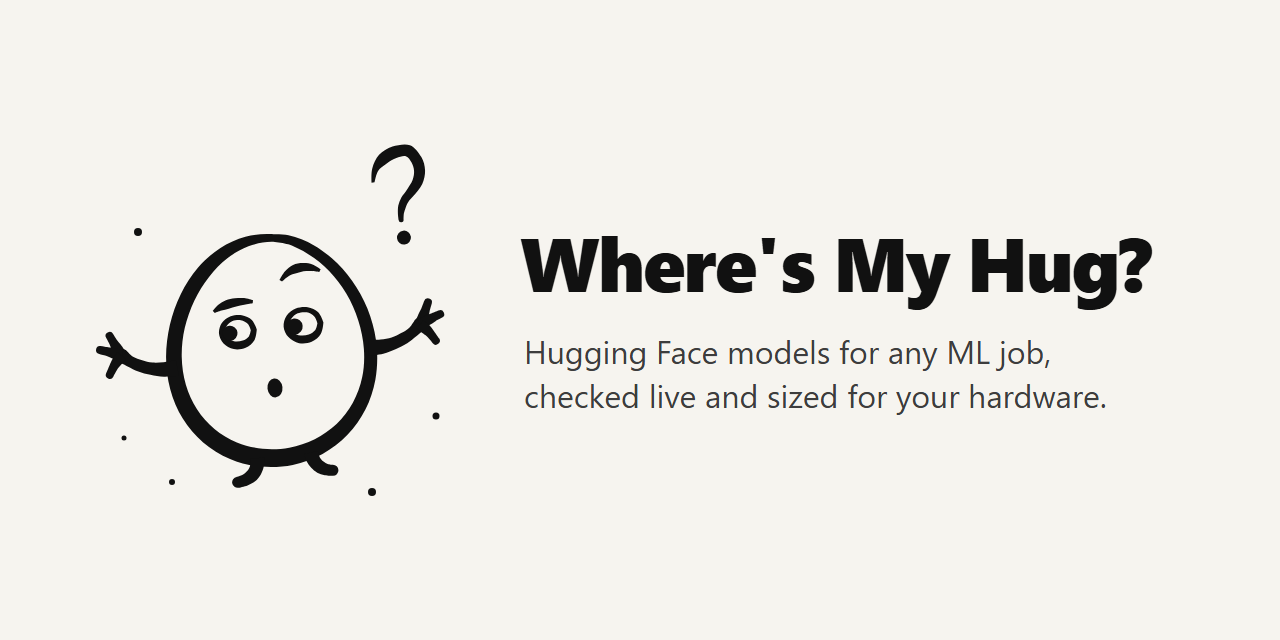
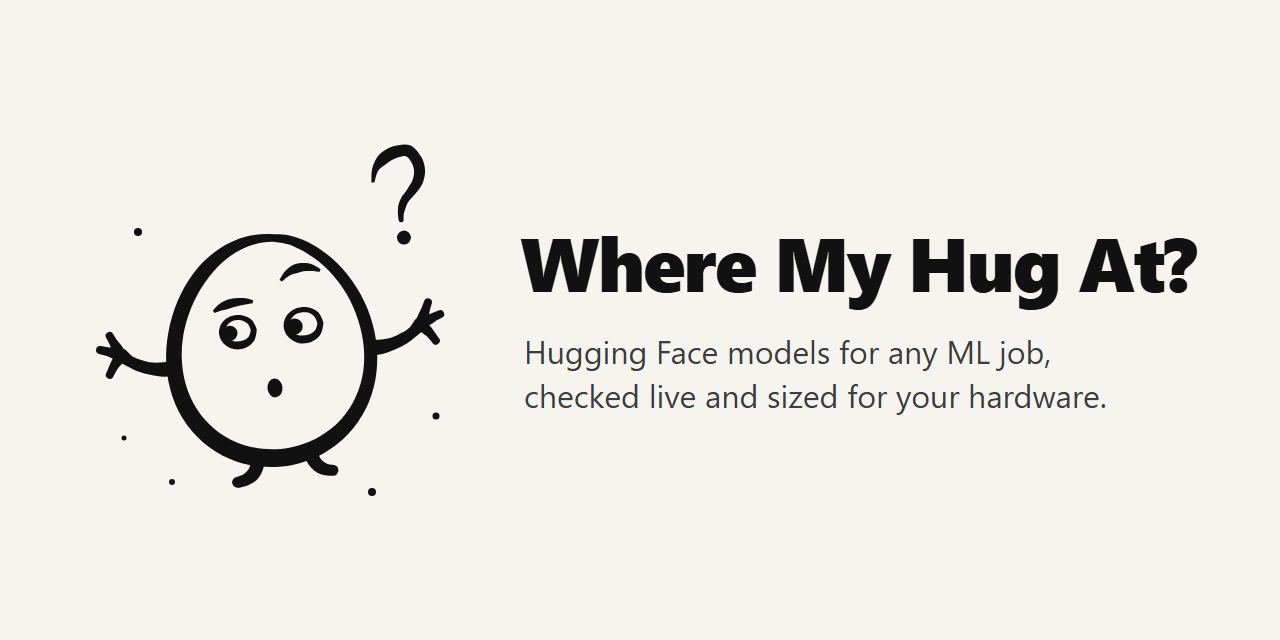
Where My Hug At?
Renamed to the meme's own words: "Where my hug at?", not "Where's my hug
at?". The title is Where My Hug At?; the repo, npm package, plugin,
extension and skill are where-my-hug; the tools are where_my_hug and
where_my_hug_verify. Nothing else changes.

Changed region(s): [[0.5938, 0.375, 0.9375, 0.5]]

diff --git a/src/server.ts b/src/server.ts
@@ -1,8 +1,8 @@
 #!/usr/bin/env node
-// Where's My Hug? as an MCP server on stdio. Two tools, called in order: the rubric the agent follows to propose
+// Where My Hug At? as an MCP server on stdio. Two tools, called in order: the rubric the agent follows to propose
 // models and datasets, then the live check on Hugging Face that writes the report the user sees. For an agent
-// without MCP, the same two run from a shell: `wheres-my-hug rubric` and `wheres-my-hug verify`, JSON on stdin.
-// For a client that speaks MCP over HTTP only, `wheres-my-hug --http` serves them at /mcp.
+// without MCP, the same two run from a shell: `where-my-hug rubric` and `where-my-hug verify`, JSON on stdin.
+// For a client that speaks MCP over HTTP only, `where-my-hug --http` serves them at /mcp.
 import { createServer } from 'node:http';
 import { text } from 'node:stream/consumers';
 import { McpServer } from '@modelcontextprotocol/sdk/server/mcp.js';
@@ -35,18 +35,18 @@ const slate = {
 };
 const verified = async (args: z.infer<z.ZodObject<typeof slate>>) => {
   const { markdown, result } = await verify(args);
-  return `${markdown}\n\n<wheres_my_hug_json>\n${JSON.stringify(result)}\n</wheres_my_hug_json>`;
+  return `${markdown}\n\n<where_my_hug_json>\n${JSON.stringify(result)}\n</where_my_hug_json>`;
 };
 
 function serve() {
-  const server = new McpServer({ name: 'wheres-my-hug', version: '0.1.0' });
-  server.registerTool('wheres_my_hug', {
-    title: "Where's my hug at?",
-    description: 'Step 1 of 2, before recommending any Hugging Face model or dataset. If compute, license, stack or data is missing, returns the questions to ask the user first: call again with the answers ("unknown" is fine). Then returns the method for splitting an ML need into parts and deciding which parts Hugging Face covers (use a model as is, fine-tune one, train one) and which are plain code. Follow it, then call wheres_my_hug_verify.',
+  const server = new McpServer({ name: 'where-my-hug', version: '0.1.0' });
+  server.registerTool('where_my_hug', {
+    title: "Where my hug at?",
+    description: 'Step 1 of 2, before recommending any Hugging Face model or dataset. If compute, license, stack or data is missing, returns the questions to ask the user first: call again with the answers ("unknown" is fine). Then returns the method for splitting an ML need into parts and deciding which parts Hugging Face covers (use a model as is, fine-tune one, train one) and which are plain code. Follow it, then call where_my_hug_verify.',
     inputSchema: details,
   }, async (args) => ({ content: [{ type: 'text', text: rubric(args) }] }));
-  server.registerTool('wheres_my_hug_verify', {
-    title: "Where's my hug at? (checked on Hugging Face)",
+  server.registerTool('where_my_hug_verify', {
+    title: "Where my hug at? (checked on Hugging Face)",
     description: 'Step 2 of 2: checks every model and dataset id live on Hugging Face, drops the ones that are not there, flags licenses, gating, staleness and low use, sizes each model against the compute (fits, a stretch that fits only quantized, or cloud, with who hosts it), and returns the report to show the user. If nextAction is RECALL_REPLACEMENTS, propose new ids for the parts it names and call again.',
     inputSchema: slate,
   }, async (args) => ({ content: [{ type: 'text', text: await verified(args) }] }));
@@ -65,13 +65,13 @@ else if (command === '--http' && port) {
     res.on('close', () => transport.close());
     await serve().connect(transport);
     await transport.handleRequest(req, res);
-  }).listen(Number(port), host, () => console.error(`Where's My Hug? at http://${host}:${port}/mcp`));
+  }).listen(Number(port), host, () => console.error(`Where My Hug At? at http://${host}:${port}/mcp`));
 } else if (command) {
   console.error([
-    'Usage: wheres-my-hug                          serve the MCP tools on stdio',
-    '       wheres-my-hug --http [[host:]port]     serve them over HTTP at /mcp (default 127.0.0.1:8000)',
-    '       wheres-my-hug rubric < details.json',
-    '       wheres-my-hug verify < slate.json',
+    'Usage: where-my-hug                          serve the MCP tools on stdio',
+    '       where-my-hug --http [[host:]port]     serve them over HTTP at /mcp (default 127.0.0.1:8000)',
+    '       where-my-hug rubric < details.json',
+    '       where-my-hug verify < slate.json',
   ].join('\n'));
   process.exit(2);
 } else await serve().connect(new StdioServerTransport());

diff --git a/test/server.test.ts b/test/server.test.ts
@@ -11,29 +11,29 @@ test('serves both tools over stdio, as Claude Code starts it', async () => {
   await client.connect(new StdioClientTransport({ command: process.execPath, args: [fileURLToPath(new URL('../src/server.ts', import.meta.url))] }));
   try {
     const { tools } = await client.listTools();
-    assert.deepEqual(tools.map((tool) => tool.name).sort(), ['wheres_my_hug', 'wheres_my_hug_verify']);
+    assert.deepEqual(tools.map((tool) => tool.name).sort(), ['where_my_hug', 'where_my_hug_verify']);
 
     const text = (result: Awaited<ReturnType<typeof client.callTool>>) => (result.content as { text: string }[])[0].text;
     // Details that change the answer come first: only the missing ones are asked, and no method until they're in.
-    const asked = text(await client.callTool({ name: 'wheres_my_hug', arguments: { need: 'sort socks by color', stack: 'Python' } }));
+    const asked = text(await client.callTool({ name: 'where_my_hug', arguments: { need: 'sort socks by color', stack: 'Python' } }));
     assert.match(asked, /Need: sort socks by color/);
     assert.deepEqual([...asked.matchAll(/^- (\w+):/gm)].map((match) => match[1]), ['compute', 'license', 'data']);
     assert.doesNotMatch(asked, /Split the need/);
     const method = text(await client.callTool({
-      name: 'wheres_my_hug', arguments: { need: 'sort socks by color', compute: 'unknown', license: 'personal', stack: 'Python', data: 'none' },
+      name: 'where_my_hug', arguments: { need: 'sort socks by color', compute: 'unknown', license: 'personal', stack: 'Python', data: 'none' },
     }));
     assert.match(method, /Compute: unknown\n/);
     assert.match(method, /Split the need/);
 
     // A slate with nothing to look up never reaches the network.
     const verified = text(await client.callTool({
-      name: 'wheres_my_hug_verify',
+      name: 'where_my_hug_verify',
       arguments: { need: 'sort socks', components: [{ id: 'sort', name: 'Sort', role: 'socks -> piles', verdict: 'WRITE', rationale: 'a hue threshold', candidates: [] }] },
     }));
-    assert.match(verified, /^# Where's my hug at\?/);
+    assert.match(verified, /^# Where my hug at\?/);
     assert.match(verified, /"nextAction":"DONE"/);
 
-    const refused = await client.callTool({ name: 'wheres_my_hug_verify', arguments: { need: 'x', components: [] } });
+    const refused = await client.callTool({ name: 'where_my_hug_verify', arguments: { need: 'x', components: [] } });
     assert.equal(refused.isError, true);
   } finally {
     await client.close();
@@ -46,8 +46,8 @@ test('serves the same tools over HTTP, for clients that speak only that', async 
   const client = new Client({ name: 'test', version: '0' });
   try {
     await client.connect(new StreamableHTTPClientTransport(new URL('http://127.0.0.1:38117/mcp')));
-    assert.deepEqual((await client.listTools()).tools.map((tool) => tool.name).sort(), ['wheres_my_hug', 'wheres_my_hug_verify']);
-    const asked = await client.callTool({ name: 'wheres_my_hug', arguments: { need: 'sort socks', stack: 'Python' } });
+    assert.deepEqual((await client.listTools()).tools.map((tool) => tool.name).sort(), ['where_my_hug', 'where_my_hug_verify']);
+    const asked = await client.callTool({ name: 'where_my_hug', arguments: { need: 'sort socks', stack: 'Python' } });
     assert.match((asked.content as { text: string }[])[0].text, /^- compute:/m);
     assert.equal((await fetch('http://127.0.0.1:38117/elsewhere')).status, 404);
   } finally {
@@ -61,7 +61,7 @@ test('runs the same two steps from a shell, for an agent without MCP', () => {
     execFileSync(process.execPath, [fileURLToPath(new URL('../src/server.ts', import.meta.url)), command], { input: JSON.stringify(input), encoding: 'utf8', stdio: 'pipe' });
   assert.match(run('rubric', { need: 'sort socks by color', stack: 'Python' }), /^- compute:/m);
   const report = run('verify', { need: 'sort socks', components: [{ id: 'sort', name: 'Sort', role: 'socks -> piles', verdict: 'WRITE', rationale: 'a hue threshold', candidates: [] }] });
-  assert.match(report, /^# Where's my hug at\?/);
+  assert.match(report, /^# Where my hug at\?/);
   assert.match(report, /"nextAction":"DONE"/);
   assert.throws(() => run('verify', { need: 'x', components: [] })); // the same checks as the tool
 });

diff --git a/src/rubric.ts b/src/rubric.ts
@@ -1,5 +1,5 @@
 // The first step: the method the agent follows before it names anything. Agents know Hugging Face well but misremember
-// ids and licenses, so the agent proposes and wheres_my_hug_verify checks; this text only has to make the proposals
+// ids and licenses, so the agent proposes and where_my_hug_verify checks; this text only has to make the proposals
 // good ones. Four details change the answer, so they come first: a call missing any gets questions back, not the
 // method, and "unknown" is a fine answer.
 
@@ -15,17 +15,17 @@ const QUESTIONS = {
 export function rubric(details: Details): string {
   const missing = (Object.keys(QUESTIONS) as (keyof typeof QUESTIONS)[]).filter((key) => !details[key]?.trim());
   if (missing.length) {
-    return `Where's my hug at? Before any searching, ${missing.length === 1 ? 'one detail changes' : 'these details change'} the answer.
+    return `Where my hug at? Before any searching, ${missing.length === 1 ? 'one detail changes' : 'these details change'} the answer.
 
 Need: ${details.need}
 
 Fill in what the conversation or the codebase already says. Ask the user for the rest, all at once (with your question tool, if you have one):
 ${missing.map((key) => `- ${key}: ${QUESTIONS[key]}`).join('\n')}
 
-"Not sure yet" is a fine answer: pass "unknown", and the picks will cover the range. Then call wheres_my_hug again with all four filled in.`;
+"Not sure yet" is a fine answer: pass "unknown", and the picks will cover the range. Then call where_my_hug again with all four filled in.`;
   }
   const { need, compute, license, stack, data } = details;
-  return `Where's my hug at? Work out what Hugging Face already has for this need.
+  return `Where my hug at? Work out what Hugging Face already has for this need.
 
 Need: ${need}
 Compute: ${compute}
@@ -51,7 +51,7 @@ Where a detail is "unknown", cover the range (a small pick and a big one, say) a
    - its size against the compute: fine-tuning in full needs several times the memory that running does, QLoRA less than running;
    - its task: a model that captions images doesn't find things in them, however close the names sound.
 
-5. Call wheres_my_hug_verify with:
+5. Call where_my_hug_verify with:
    { "need": "...", "compute": "...",
      "components": [{ "id": "page-reader", "name": "Read the page", "role": "photo of a page -> its text",
                       "verdict": "TUNE", "rationale": "why this verdict, and why these candidates in this order",

diff --git a/src/verify.ts b/src/verify.ts
@@ -65,7 +65,7 @@ export async function verify({ need, components, compute }: { need: string; comp
     components: parts,
     nextAction: recall.length ? 'RECALL_REPLACEMENTS' : 'DONE',
     instructions: recall.length
-      ? `These parts need new candidates: ${recall.join(', ')}. Propose ids for exactly those (not the dropped ones again), then call wheres_my_hug_verify again with the whole slate.`
+      ? `These parts need new candidates: ${recall.join(', ')}. Propose ids for exactly those (not the dropped ones again), then call where_my_hug_verify again with the whole slate.`
       : "Show the user the markdown report as it is. Its facts came from Hugging Face just now; don't restate them from memory.",
   };
   return { markdown: report(need, parts, compute), result };
@@ -139,7 +139,7 @@ function report(need: string, parts: Part[], compute?: string): string {
     .map((verdict) => [parts.filter((part) => part.verdict === verdict).length, { USE: 'to use as is', TUNE: 'to fine-tune', TRAIN: 'to train', WRITE: 'to write' }[verdict]] as const)
     .filter(([n]) => n).map(([n, words]) => `${n} ${words}`);
   const lines = [
-    "# Where's my hug at?", '',
+    "# Where my hug at?", '',
     `**${need}**`, '',
     `${parts.length} ${parts.length === 1 ? 'part' : 'parts'}: ${tally.join(', ')}.`, '',
     `_Checked on Hugging Face just now: ${named} named, ${dropped} not there and dropped${unchecked ? `, ${unchecked} Hugging Face didn't answer for` : ''}._`,

diff --git a/README.md b/README.md
@@ -1,17 +1,17 @@
 <p align="center">
   <picture>
     <source media="(prefers-color-scheme: dark)" srcset=".github/logo-dark.svg">
-    <img src=".github/logo.svg" width="220" alt="The Where's My Hug? mascot: a round ink-drawn character with its arms open wide, eyes glancing sideways, waiting for a hug">
+    <img src=".github/logo.svg" width="220" alt="The Where My Hug At? mascot: a round ink-drawn character with its arms open wide, eyes glancing sideways, waiting for a hug">
   </picture>
 </p>
 
-<h1 align="center">Where's My Hug?</h1>
+<h1 align="center">Where My Hug At?</h1>
 
 <p align="center">
-  <a href="https://www.npmjs.com/package/wheres-my-hug"><img src="https://img.shields.io/npm/v/wheres-my-hug?color=cb3837&logo=npm" alt="npm"></a>
-  <a href="https://github.com/bikemeardsley/wheres-my-hug/actions/workflows/test.yml"><img src="https://github.com/bikemeardsley/wheres-my-hug/actions/workflows/test.yml/badge.svg" alt="Tests"></a>
+  <a href="https://www.npmjs.com/package/where-my-hug"><img src="https://img.shields.io/npm/v/where-my-hug?color=cb3837&logo=npm" alt="npm"></a>
+  <a href="https://github.com/bikemeardsley/where-my-hug/actions/workflows/test.yml"><img src="https://github.com/bikemeardsley/where-my-hug/actions/workflows/test.yml/badge.svg" alt="Tests"></a>
   <a href="https://modelcontextprotocol.io"><img src="https://img.shields.io/badge/MCP-111111?logo=modelcontextprotocol&logoColor=white" alt="MCP"></a>
-  <a href="https://skills.sh/bikemeardsley/wheres-my-hug/wheres-my-hug"><img src="https://img.shields.io/badge/skills.sh-111111" alt="On skills.sh"></a>
+  <a href="https://skills.sh/bikemeardsley/where-my-hug/where-my-hug"><img src="https://img.shields.io/badge/skills.sh-111111" alt="On skills.sh"></a>
   <a href="https://huggingface.co/models"><img src="https://img.shields.io/badge/Hugging_Face-FFD21E?logo=huggingface&logoColor=black" alt="Hugging Face"></a>
   <br>
   <a href="#development"><img src="https://img.shields.io/badge/TypeScript-3178C6?logo=typescript&logoColor=white" alt="TypeScript"></a>
@@ -41,21 +41,21 @@ WebUI and any other MCP client, or as an Agent Skill.
 Add it to your agent (Claude Code here; [every other option](#install) below):
 
 ```sh
-claude mcp add --scope user wheres-my-hug -- npx -y wheres-my-hug
+claude mcp add --scope user where-my-hug -- npx -y where-my-hug
 ```
 
 Then ask:
 
-> **Where's my hug at for transcribing handwritten recipe cards?**
+> **Where my hug at for transcribing handwritten recipe cards?**
 
 Your agent asks the few things it can't guess, splits the job into parts, and
 comes back with a report like the [one below](#example-recipe-cards), every
 model and dataset in it looked up on Hugging Face moments before. It works for
 any job a model might do:
 
-> Where's my hug at for spotting which birds visit my feeder camera?<br>
-> Where's my hug at for sorting support emails by how urgent they are?<br>
-> Where's my hug at for pulling the totals off scanned receipts?
+> Where my hug at for spotting which birds visit my feeder camera?<br>
+> Where my hug at for sorting support emails by how urgent they are?<br>
+> Where my hug at for pulling the totals off scanned receipts?
 
 ## How it works
 
@@ -101,8 +101,8 @@ against your compute, and that report is what you see. The agent decides what
 fits and in what order; every fact in the report (license, size, downloads,
 freshness) comes from Hugging Face.
 
-Under the hood it's an MCP server with two tools: `wheres_my_hug` for steps 1
-and 2, and `wheres_my_hug_verify` for step 3.
+Under the hood it's an MCP server with two tools: `where_my_hug` for steps 1
+and 2, and `where_my_hug_verify` for step 3.
 
 ### Flags
 
@@ -167,17 +167,17 @@ Needs Node 22.18 or later. Pick what your agent uses.
 knows when to reach for them. One marketplace serves all three.
 
 ```sh
-/plugin marketplace add bikemeardsley/wheres-my-hug          # Claude Code
-/plugin install wheres-my-hug@wheres-my-hug
+/plugin marketplace add bikemeardsley/where-my-hug          # Claude Code
+/plugin install where-my-hug@where-my-hug
 
-codex plugin marketplace add bikemeardsley/wheres-my-hug      # Codex
-codex plugin add wheres-my-hug@wheres-my-hug
+codex plugin marketplace add bikemeardsley/where-my-hug      # Codex
+codex plugin add where-my-hug@where-my-hug
 
-copilot plugin marketplace add bikemeardsley/wheres-my-hug    # Copilot CLI
-copilot plugin install wheres-my-hug@wheres-my-hug
+copilot plugin marketplace add bikemeardsley/where-my-hug    # Copilot CLI
+copilot plugin install where-my-hug@where-my-hug
 ```
 
-Devin's CLI reads the same plugin: `devin plugins install bikemeardsley/wheres-my-hug`.
+Devin's CLI reads the same plugin: `devin plugins install bikemeardsley/where-my-hug`.
 
 **Any other MCP client** (Claude Desktop, Cursor, Windsurf, Cline, Goose,
 Kiro, Junie, LM Studio, Warp, …): a stdio server, in the client's config.
@@ -185,23 +185,23 @@ Most call the key `mcpServers`; VS Code calls it `servers`, Zed
 `context_servers`, OpenCode `mcp`.
 
 ```json
-{ "mcpServers": { "wheres-my-hug": { "command": "npx", "args": ["-y", "wheres-my-hug"] } } }
+{ "mcpServers": { "where-my-hug": { "command": "npx", "args": ["-y", "where-my-hug"] } } }
 ```
 
 `npx` checks for the latest version each time it starts, which takes a few
 seconds. If a client gives up waiting, give it longer (Claude Code reads
 `MCP_TIMEOUT` from the environment; Codex reads `startup_timeout_sec`, which
-the plugin sets), or install it once with `npm install -g wheres-my-hug` and
-use `wheres-my-hug` as the command, which starts at once.
+the plugin sets), or install it once with `npm install -g where-my-hug` and
+use `where-my-hug` as the command, which starts at once.
 
-**Gemini CLI**, as an extension: `gemini extensions install https://github.com/bikemeardsley/wheres-my-hug`
+**Gemini CLI**, as an extension: `gemini extensions install https://github.com/bikemeardsley/where-my-hug`
 
 **Open WebUI**, and other clients that speak MCP over HTTP only: run it as an
 HTTP server, then add `http://<host>:8000/mcp` in Open WebUI's admin settings
 as an external tool server of type MCP (Streamable HTTP).
 
 ```sh
-npx -y wheres-my-hug --http 0.0.0.0:8000
+npx -y where-my-hug --http 0.0.0.0:8000
 ```
 
 Without a host it listens on 127.0.0.1 only. Anyone who can reach the port can
@@ -210,12 +210,12 @@ see: keep it on a network you trust.
 
 **As an Agent Skill**, for agents that read `SKILL.md` (Cline, Cursor,
 Copilot, Goose, OpenCode, Amp, Zed, Junie, Hermes, Mistral Vibe and more):
-`npx skills add bikemeardsley/wheres-my-hug`. The skill uses the MCP tools
+`npx skills add bikemeardsley/where-my-hug`. The skill uses the MCP tools
 when they're connected, and otherwise runs the same two steps from a shell:
 
 ```sh
-npx -y wheres-my-hug rubric < details.json
-npx -y wheres-my-hug verify < slate.json
+npx -y where-my-hug rubric < details.json
+npx -y where-my-hug verify < slate.json
 ```
 
 **`HF_TOKEN` (optional).** Everything public works without one. To include
@@ -240,7 +240,7 @@ method and the report stay between you and your agent.
 ## Security
 
 Report a vulnerability privately through
-[GitHub Security Advisories](https://github.com/bikemeardsley/wheres-my-hug/security/advisories/new),
+[GitHub Security Advisories](https://github.com/bikemeardsley/where-my-hug/security/advisories/new),
 not a public issue. [SECURITY.md](SECURITY.md) lists what it touches: GETs to
 Hugging Face, and nothing on your machine.
 

diff --git a/skills/where-my-hug/SKILL.md b/skills/where-my-hug/SKILL.md
@@ -1,33 +1,33 @@
 ---
-name: wheres-my-hug
+name: where-my-hug
 description: Find out what Hugging Face already has for a machine learning need before recommending any model or dataset. Use when the user wants a model for a task, asks which Hugging Face model or dataset to use, or is planning something with ML parts. Splits the need into parts, decides for each whether to use a Hugging Face model as is (USE), fine-tune one (TUNE), train one (TRAIN), or write plain code (WRITE), and checks every model and dataset named live on Hugging Face, with licenses, gating and memory sized against the user's hardware.
 ---
 
-# Where's my hug at?
+# Where my hug at?
 
 Agents know Hugging Face well but misremember ids, licenses and sizes.
-So you propose, and Where's My Hug checks every id live on Hugging Face and
+So you propose, and Where My Hug At checks every id live on Hugging Face and
 writes the report the user sees. Two steps, always in order.
 
 ## With the MCP tools
 
-If the `wheres_my_hug` and `wheres_my_hug_verify` tools are connected, call
-`wheres_my_hug` with the need and follow what it returns. It says what to ask
-the user first and when to call `wheres_my_hug_verify`.
+If the `where_my_hug` and `where_my_hug_verify` tools are connected, call
+`where_my_hug` with the need and follow what it returns. It says what to ask
+the user first and when to call `where_my_hug_verify`.
 
 ## Without them, from a shell
 
 The same two steps run from a shell. Node 22.18 or later is needed. Write the
 JSON to a file and pass it on stdin:
 
-1. `npx -y wheres-my-hug rubric < details.json`, where
+1. `npx -y where-my-hug rubric < details.json`, where
    the file holds `{"need": "...", "compute": "...", "license": "...", "stack": "...", "data": "..."}`.
    Fill what the conversation or codebase already says and leave the rest
    out. If it returns questions, ask the user, then run it again with the
    answers ("unknown" is fine).
 2. Follow the method it returns. Where it says to call
-   `wheres_my_hug_verify`, write that JSON to a file and run
-   `npx -y wheres-my-hug verify < slate.json`.
+   `where_my_hug_verify`, write that JSON to a file and run
+   `npx -y where-my-hug verify < slate.json`.
    If its JSON says `RECALL_REPLACEMENTS`, propose new ids for the parts it
    names and run it again.
 

diff --git a/CLAUDE.md b/CLAUDE.md
@@ -1,4 +1,4 @@
-# Where's My Hug?
+# Where My Hug At?
 
 An MCP server: describe an ML need, and it says which parts the Hugging Face
 Hub already covers (USE), which to fine-tune from a base model (TUNE), which
@@ -14,11 +14,11 @@ every model and dataset checked against the live Hub. Start with
   development. `tsc` builds `build/` only on install (`prepare`), because Node
   won't strip types inside `node_modules`, which is where `npx` puts it.
   Dependencies pinned to exact versions; never auto-upgrade.
-- **One entry point, every client.** `npx -y wheres-my-hug` (the npm package)
+- **One entry point, every client.** `npx -y where-my-hug` (the npm package)
   is what the Claude Code plugin, the Cursor plugin, the Gemini extension,
   other MCP clients and the skill's shell fallback all run. It's written in
   `.claude-plugin/plugin.json`, `mcp.json` (Cursor's), `gemini-extension.json`,
-  `skills/wheres-my-hug/SKILL.md` and the README: change one, change them all.
+  `skills/where-my-hug/SKILL.md` and the README: change one, change them all.
 - **American English** in code, docs and commits.
 - **General, not tied to any one project.** It came out of Thicken's vision
   work, but nothing here should know about books, slabs or Thicken.

diff --git a/SECURITY.md b/SECURITY.md
@@ -12,13 +12,13 @@ Fixes ship on `main` and in the next npm release. Use the latest of either.
 ## Reporting a vulnerability
 
 Report it privately through
-[GitHub Security Advisories](https://github.com/bikemeardsley/wheres-my-hug/security/advisories/new).
+[GitHub Security Advisories](https://github.com/bikemeardsley/where-my-hug/security/advisories/new).
 Please don't open a public issue for a vulnerability.
 
 Include what you can: the version or commit, steps to reproduce, and what an
 attacker gains.
 
-## What Where's My Hug? touches
+## What Where My Hug At? touches
 
 - **The network:** `GET` requests to `huggingface.co/api`, one per model or
   dataset id an agent names, to check it exists and read its facts. Nothing
